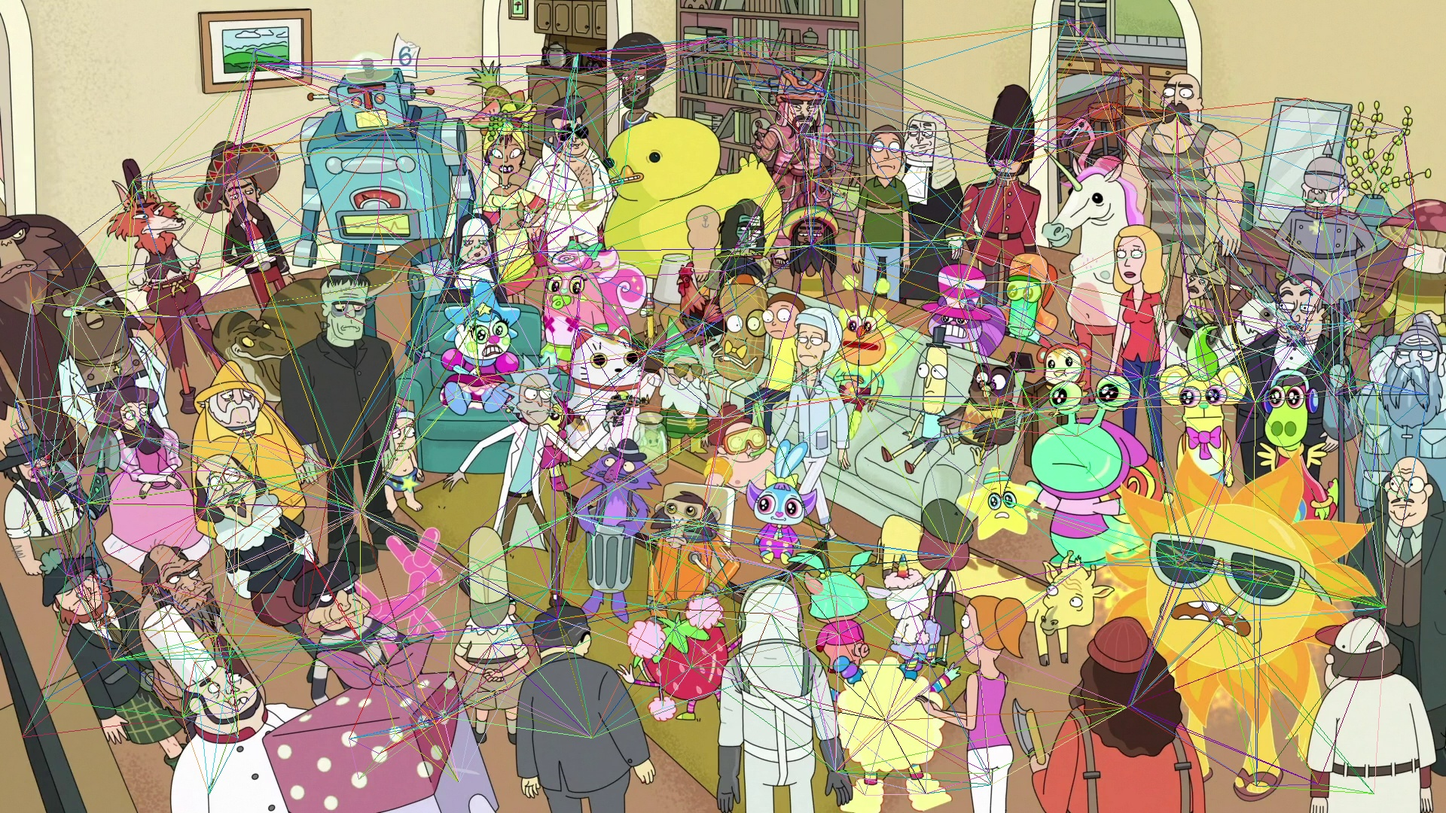
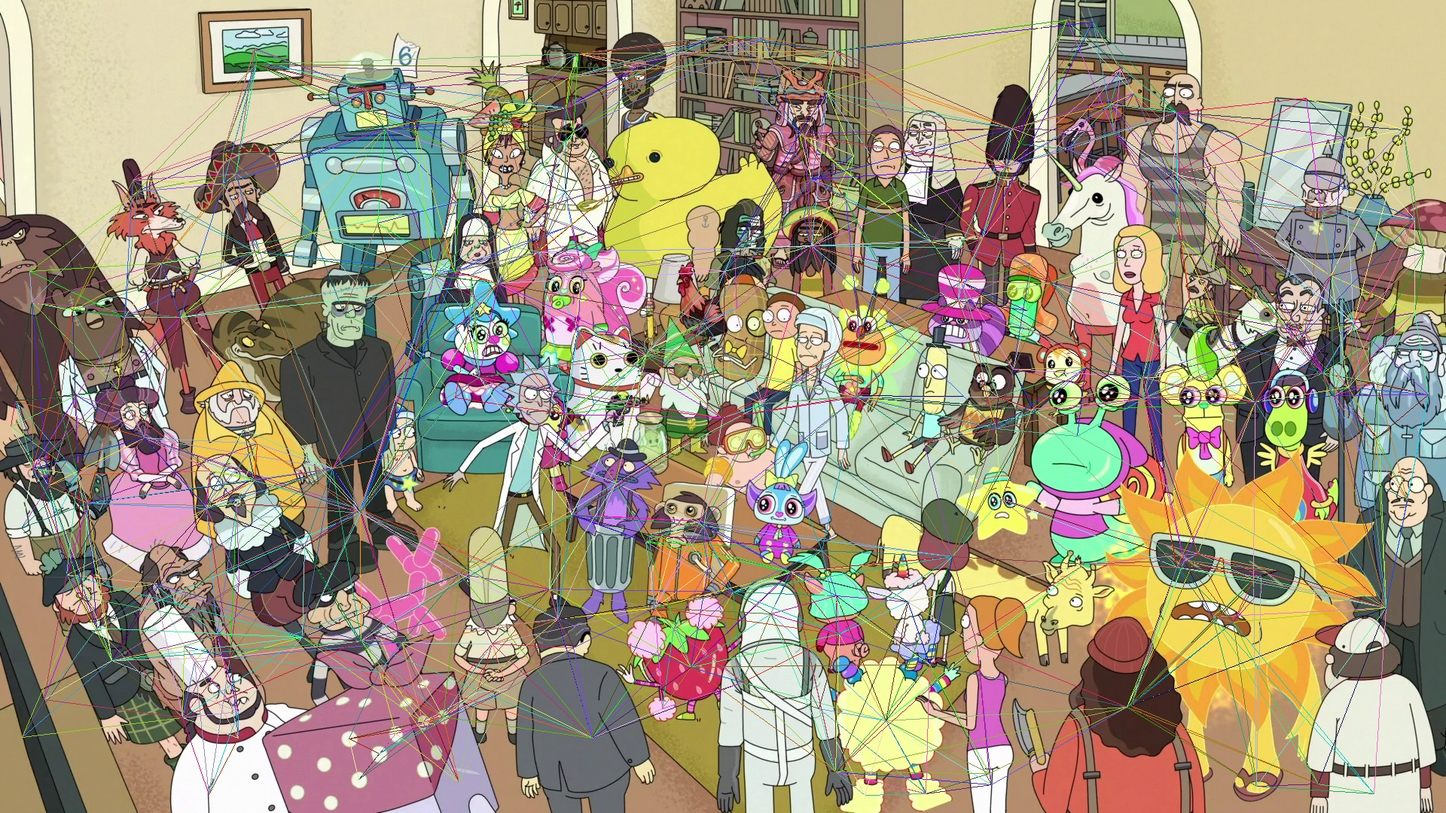
redoing main

diff --git a/newMain.py b/newMain.py
@@ -1,0 +1,165 @@
+import imagehash as ih
+import basicShapeOperations as BSO
+import basicImageOperations as BIO
+
+
+DEBUG_DATA = {
+	'imageName':None,
+	'img':None
+}
+
+
+def getTheKeyPoints(img):
+	import newGetKeypoints as gk
+	return gk.getTheKeyPoints(img)
+
+
+def getTheTriangles(keyPoints):
+	import newGetKeypoints as gk
+	return gk.getTheTriangles(keyPoints)
+
+
+def getTheFragments(img, triangles):
+	import fragProcessing as fs
+	for shape in triangles:
+		scaledShape, xfrag = fs.cutOutTheFrag(shape, img)
+		yield xfrag, scaledShape
+
+def _weNeedToAdd180(rot, shape):
+	shape = BSO.rotateShape(shape, rot)
+	shape = BSO.centerShapeUsingPoint(shape, (0,0))
+	count = 0
+	for pt in shape:
+		if pt[1] < 0:
+			count = count+1
+
+	if count > 1:
+		return True
+	else: 
+		return False
+
+
+def getNormalisedFragmentForRotation(fragImageWithScaleFix, shapeWithScaleFix, rotation):
+	import fragProcessing as fp
+
+	if _weNeedToAdd180(rotation, shapeWithScaleFix):
+		rotation = rotation + 180
+
+	shapeWithScaleAndRotationFix = BSO.rotateShape(shapeWithScaleFix, rotation)
+	fragImageWithScaleAndRotationFix = BIO.rotateImg(fragImageWithScaleFix, rotation)
+
+	#take the fiting out of this function!!!
+	fittedShape, fragImageWithScaleAndRotationFix = fp.fitFragTightToImage(shapeWithScaleAndRotationFix, fragImageWithScaleAndRotationFix);
+	return fragImageWithScaleAndRotationFix, fittedShape
+
+
+def normaliseRotationForSingleFrag(shapeWithScaleFix, fragImageWithScaleFix):
+	rotations = BSO.getFlatRotations(shapeWithScaleFix)#TODO: explain this function
+
+	ret = []
+	for rotation in rotations:
+		tempFrag, tempShape = getNormalisedFragmentForRotation(fragImageWithScaleFix, shapeWithScaleFix, rotation)
+		ret.append( tempFrag )
+
+	return ret
+
+
+#FIXME: remove this
+def _rotateAndScaleFragAndShape(shape, frag, angle, scalar):
+	resShape = BSO.scaleAndRotateShape(shape, angle, scalar)
+	fragImageWithScaleFix = BIO.rotateAndScaleByNumbers(shape, frag, angle, scalar)
+	return resShape, fragImageWithScaleFix
+
+
+def normaliseScaleForSingleFrag(inputFrag, inputShape):
+	import getMinimumScaleForShape as g
+	angle, scalar = g.getValuesToNormaliseScale(inputShape)
+	return _rotateAndScaleFragAndShape(inputShape, inputFrag, angle, scalar)
+
+
+def normaliseScaleAndRotationForSingleFrag(inputFrag, inputShape):
+	shapeWithScaleFix, fragImageWithScaleFix = normaliseScaleForSingleFrag(inputFrag, inputShape)
+	theThreeTriangles = normaliseRotationForSingleFrag(shapeWithScaleFix, fragImageWithScaleFix)
+	return theThreeTriangles
+
+
+def normaliseScaleAndRotationForAllFrags(inputFragmentsAndShapes):
+	ret = []
+	for inputFrag, inputShape in inputFragmentsAndShapes:
+		t1 = normaliseScaleAndRotationForSingleFrag(inputFrag, inputShape)
+		for tri in t1:
+			ret.append(tri)
+
+	return ret
+
+
+def getHashForSingleFragment(fragment, hash_size=6):
+	from PIL import Image
+	pythonImageObj = Image.fromarray(fragment)
+	return ih.phash(pythonImageObj, hash_size)
+
+
+#fragmentImages: array of the actual pixel matrix of a fragment  
+#fragmentTriangles: the triangles/shapes associated with each fragment...
+#...(we used this to know which part of the fragmentImage actually contains image data)
+def	getHashsForAllFragments(normalisedFragments):
+	for fragment in normalisedFragments:
+		yield getHashForSingleFragment(fragment)
+
+
+def fragmentToJsonObjects(fragment, triangle):
+	return {
+		'img': fragment, 
+		'shape': triangle
+	}
+
+
+def allFragmentsToJsonObjects(fragmentHashs):
+	for fragment, triangle in fragmentHashs:
+		yield fragmentToJsonObjects(fragment, triangle)
+
+
+##################################################
+#	public FragmentHash[] getAllTheHashesForImage
+##################################################
+#the main wrapper function for processing an image
+#inputImage: opencv matrix for the image in colour
+#imageNameWithoutPath: for debug/we sometimes use it if we want to save a file ('fragment_'+image_name+'_001.jpg') 
+def getAllTheHashesForImage(inputImage):
+
+	#get the keyPoints
+	keyPoints = getTheKeyPoints(inputImage)
+
+
+	#turn the keyPoints into triangles	
+	triangles = getTheTriangles(keyPoints)
+
+
+	#turn the triangles into fragments of the image
+	fragementsAndShape = getTheFragments(inputImage, triangles)
+
+
+	#normalise the scale and fragments
+	normalisedFragments = normaliseScaleAndRotationForAllFrags(fragementsAndShape)
+
+
+	#hash the fragments 
+	fragmentHashs = getHashsForAllFragments(normalisedFragments)
+
+	for frag in fragmentHashs:
+		print frag
+
+	packedData = zip(fragmentHashs, normalisedFragments)#FIXME:
+
+	fragmentHashs_jsonObjs = allFragmentsToJsonObjects(packedData)
+
+	return fragmentHashs_jsonObjs
+
+
+
+
+import cv2
+img = cv2.imread("./input/small_lenna1.jpg")
+temp = getAllTheHashesForImage(img)
+#for x in temp:
+#	print str(x)

diff --git a/newGetKeypoints.py b/newGetKeypoints.py
@@ -111,60 +111,15 @@ def getTriangles(points):
 
 	return retTris
 
-def fromPointsToFramenets_justTriangles(points, imgName, isDebug):
+def fromPointsToFramenets_justTriangles(points):
 	ret = []
 	x = getTriangles(points)
 
-	
-	if isDebug:
-		thefile = open('./output_debug/'+imgName+'/FULL_points_output_test.txt', 'w')
 	for i in x:
-		if isDebug:
-			thefile.write("%s\n" % str(i))
 		if containsNoPoints(i, points):
 			#if isGoodFrag(i):
 			ret.append(i)
 	return ret
-
-def fixTheRotationAndScaleOfTheImageForBrisk(img, shape):
-	#so pass in the angle and scale to use, then normalise it using a square as the fragment!
-	#hm.....how are we going to get the actual coords of those points...?
-	angle, scalar = g.getValuesToNormaliseScaleNoInputRange(shape)
-	img, changeFromCenterPosition = BIO.rotateAndScaleByNumbers_weird_simple_one(img, angle, scalar)
-	return img, angle, scalar
-
-def handleBrisk(img, imgName):
-	# # # # # # # # # # # # # # # # # # # # # # # # # # # # # # # # # # # # # # #
-	# Fundamental Parts
-	# # # # # # # # # # # # # # # # # # # # # # # # # # # # # # # # # # # # # # #
-	# alternative detectors, descriptors, matchers, parameters ==> different results
-	detector = cv2.BRISK(thresh=45, octaves=1)
-	extractor = cv2.DescriptorExtractor_create('BRISK')  # non-patented. Thank you!
-	matcher = cv2.BFMatcher(cv2.NORM_L2SQR)
-	# Detect blobs.
-
-	img = cv2.cvtColor(img, cv2.COLOR_BGR2GRAY)
-	keypoints = detector.detect(img)
-	keypoints, obj_descriptors = extractor.compute(img, keypoints)
-
-	print 'Scene Summary  **' + str(imgName)
-	print '    {} keypoints'.format(len(keypoints))
-
-	ret = []
-	for keypoint in keypoints:
-		ret.append( (int(keypoint.pt[0]), int(keypoint.pt[1])) )
-
-	img = cv2.drawKeypoints(img, keypoints, np.array([]), (0,0,255), cv2.DRAW_MATCHES_FLAGS_DRAW_RICH_KEYPOINTS)
-#	cv2.imshow('s', im_with_keypoints)
-#	cv2.waitKey()
-
-	return ret, img
-
-
-def getTheDifferenceOfTheCenterPoints(cnt_pnt, angle, scalar):
-#	points = BSO.scaleAndRotateShape([cnt_pnt], angle, scalar)
-#	pnt = points[0]
-	return (1,1)
 
 
 def getTheKeypoints_justPoints_inner(img):
@@ -272,44 +227,13 @@ def recolour(img, gaussW=41):
 #	cv2.imwrite(imgName + 'blur' + str(gaussW) + '_lenna_big_diff_cols.png', img2)
 	#cv2.waitKey()
 
-def getAllTheFragments_justPoints(imgName, isDebug):
-	img = cv2.imread("./input/"+imgName+".jpg")
+def getTheKeyPoints(img):
+	return getTheKeypoints_justPoints_inner(img)
+
+def getTheTriangles(points):
+	return fromPointsToFramenets_justTriangles(points)
+
+def getTheFragments(img):
 	points = getTheKeypoints_justPoints_inner(img)
-
-	frags = fromPointsToFramenets_justTriangles(points, imgName, isDebug)
-	return frags
-
-
-def getTheFragments(imgName, isDebug):
-	time1 = time.time()
-	############just take the first frag
-	ret = getAllTheFragments_justPoints(imgName, isDebug)
-
-	if isDebug:
-		thefile = open('./output_debug/'+imgName+'/FILTERED_points_output_test.txt', 'w')
-		for item in ret:
-		  thefile.write("%s\n" % str(item))
-
-	print "len(ret): " + str(len(ret))
-	finalRet = []
-	img = cv2.imread("./input/"+imgName+".jpg")
-
-	########draw the triangles
-	
-	for tempShape in ret:
-		col = (randint(0,255),randint(0,255),randint(0,255))
-		d.drawLinesColourAlsoWidth(tempShape, img, col, 1)
-	cv2.imwrite('temp/temp3.jpg', img)
-	########
-	img = cv2.imread("./input/"+imgName+".jpg")
-	time2 = time.time()
-	print '%s function took %0.3f ms' % ("getTheFrags", (time2-time1)*1000.0)
-
-	for tempShape in ret:
-		shape = []
-		for p in tempShape:
-			shape.append(p)
-		####################################
-		scaledShape, xfrag = fs.cutOutTheFrag(shape, img)
-
-		yield shape, scaledShape, xfrag
+	ret = fromPointsToFramenets_justTriangles(points)
+	return ret

diff --git a/getMinimumScaleForShape.py b/getMinimumScaleForShape.py
@@ -167,7 +167,7 @@ def getValuesToNormaliseScale1(shape):
 	#return the local minimum
 	return (vals[0][2][1], vals[0][1][1])
 
-def getValuesToNormaliseScale2(shape, inputRange):
+def getValuesToNormaliseScale2(shape, inputRange=[(0.,359.0), (1.,8.)]):
 	shape = BSO.centerShapeUsingPoint(shape, (0,0))
 	bounds = [(low, high) for low, high in zip(inputRange[0], inputRange[1])]
 	minimizer_kwargs = {"args": shape, "bounds": bounds}
@@ -178,7 +178,7 @@ def getValuesToNormaliseScale2(shape, inputRange):
 	return val['x'][0], scale 
 
 
-def getValuesToNormaliseScale(shape, inputRange):
+def getValuesToNormaliseScale(shape, inputRange=[(0.,359.0), (1.,8.)]):
 	shape = BSO.centerShapeUsingPoint(shape, (0,0))
 	bounds = inputRange
 	

diff --git a/imageOperationsForFixingScaleAndRotation.py b/imageOperationsForFixingScaleAndRotation.py
@@ -1,0 +1,31 @@
+import numpy as np
+import cv2
+import getMinimumScaleForShape as g
+import shapeDrawerWithDebug as d
+import basicImageOperations as BIO
+import basicShapeOperations as BSO
+import fragProcessing as fp
+import getTheFragments as gf
+import itertools
+import math
+from PIL import Image
+import imagehash as ih
+from imagehash import ImageHash
+from random import randint
+import redis
+import json	
+import jsonHandling as jh
+import os
+
+def weNeedToAdd180(rot, shape):
+	resShape = BSO.rotateShape(shape, rot)
+	resShape = BSO.centerShapeUsingPoint(resShape, (0,0))
+	count = 0
+	for pt in resShape:
+		if pt[1] < 0:
+			count = count+1
+
+	if count > 1:
+		return True
+	else: 
+		return False

diff --git a/fragProcessing.py b/fragProcessing.py
@@ -87,17 +87,5 @@ def cutOutTheFrag(shape, img):
 
 	return shape, frag
 
-def weNeedToAdd180(rot, shape):
-	resShape = BSO.rotateShape(shape, rot)
-	resShape = BSO.centerShapeUsingPoint(resShape, (0,0))
-	count = 0
-	for pt in resShape:
-		if pt[1] < 0:
-			count = count+1
-
-	if count > 1:
-		return True
-	else: 
-		return False
 
 
